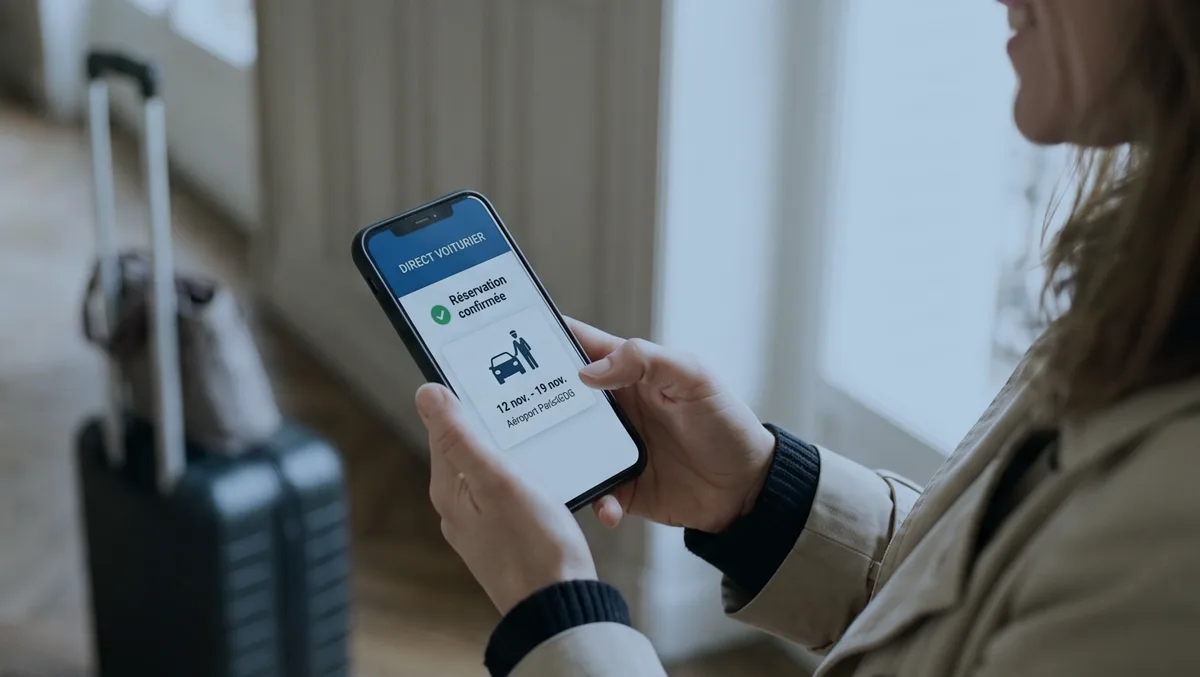
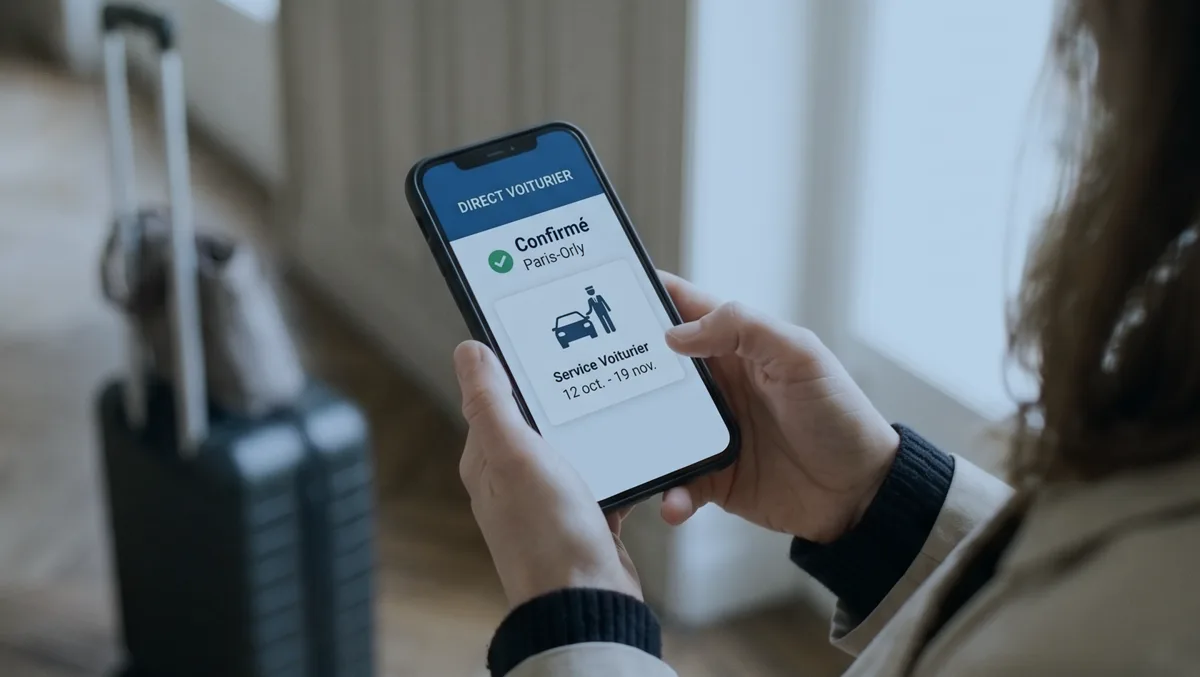
Étape 3 : photo parking sécurisé ; étape 1 : nouvelle photo (Paris-Orly)
Claude-Session: https://claude.ai/code/session_01KfdsZaeK8MhMcQpSjctQao

diff --git a/public/index.html b/public/index.html
@@ -173,38 +173,7 @@ window.VO_CONTACT = {
       </article>
       <article class="h-step reveal">
         <div class="h-step-top"><i>3</i></div>
-        <div class="h-step-art"><svg aria-hidden="true" focusable="false" viewBox="0 0 340 160" fill="none">
-<circle cx="48" cy="56" r="10" fill="#0F172A"/>
-<rect x="40" y="68" width="16" height="36" rx="4" fill="#0284C7"/>
-<line x1="44" y1="104" x2="44" y2="134" stroke="#0F172A" stroke-width="4.5" stroke-linecap="round"/>
-<line x1="52" y1="104" x2="52" y2="134" stroke="#0F172A" stroke-width="4.5" stroke-linecap="round"/>
-
-<path d="M52 76 L86 66" stroke="#0F172A" stroke-width="3.5" stroke-linecap="round"/>
-<path d="M86 66 L156 50 L168 76 Z" fill="#BAE6FD" opacity="0.65"/>
-
-<circle cx="152" cy="58" r="5" fill="#FFFFFF"/>
-<circle cx="166" cy="54" r="4.5" fill="#FFFFFF"/>
-<circle cx="178" cy="62" r="5.5" fill="#FFFFFF"/>
-<circle cx="138" cy="68" r="4" fill="#FFFFFF"/>
-
-<!-- MÊME CHÂSSIS AUTOMOBILE EXACT -->
-<path d="M 100,124 L 115,124 C 117,112 127,104 140,104 C 153,104 163,112 165,124 L 245,124 C 247,112 257,104 270,104 C 283,104 293,112 295,124 L 315,124 C 322,124 326,118 326,108 L 320,96 L 285,96 L 245,68 C 225,58 165,58 140,68 L 115,96 L 98,102 C 94,106 94,118 100,124 Z" fill="#1E293B"/>
-
-<polygon points="144,72 195,72 195,94 122,94" fill="#64748B"/>
-<polygon points="201,72 238,72 276,94 201,94" fill="#64748B"/>
-
-<rect x="314" y="99" width="9" height="3.5" rx="1.5" fill="#FFFFFF"/>
-<line x1="316" y1="100.7" x2="321" y2="100.7" stroke="#38BDF8" stroke-width="1" stroke-linecap="round"/>
-
-<rect x="94" y="104" width="4.5" height="10" rx="1.5" fill="#EF4444"/>
-
-<line x1="25" y1="135" x2="330" y2="135" stroke="#E2E8F0" stroke-width="2" stroke-linecap="round"/>
-
-<circle cx="140" cy="124" r="17" fill="#0F172A" stroke="#CBD5E1" stroke-width="3.5"/>
-<circle cx="140" cy="124" r="7.5" fill="#475569"/>
-<circle cx="270" cy="124" r="17" fill="#0F172A" stroke="#CBD5E1" stroke-width="3.5"/>
-<circle cx="270" cy="124" r="7.5" fill="#475569"/>
-</svg></div>
+        <div class="h-step-art h-step-photo"><img src="/img/gardiennage.webp" alt="Parking sécurisé sous vidéosurveillance où votre voiture est gardée pendant votre voyage" width="1200" height="670" loading="lazy" decoding="async"></div>
         <h3>Stationnement et entretien soigné</h3>
         <p>Votre voiture est gardée sur notre parking à quelques minutes d'Orly, sous vidéosurveillance 24h/24. Si l'option lavage est sélectionnée, elle est nettoyée avec soin avant votre retour.</p>
       </article>
